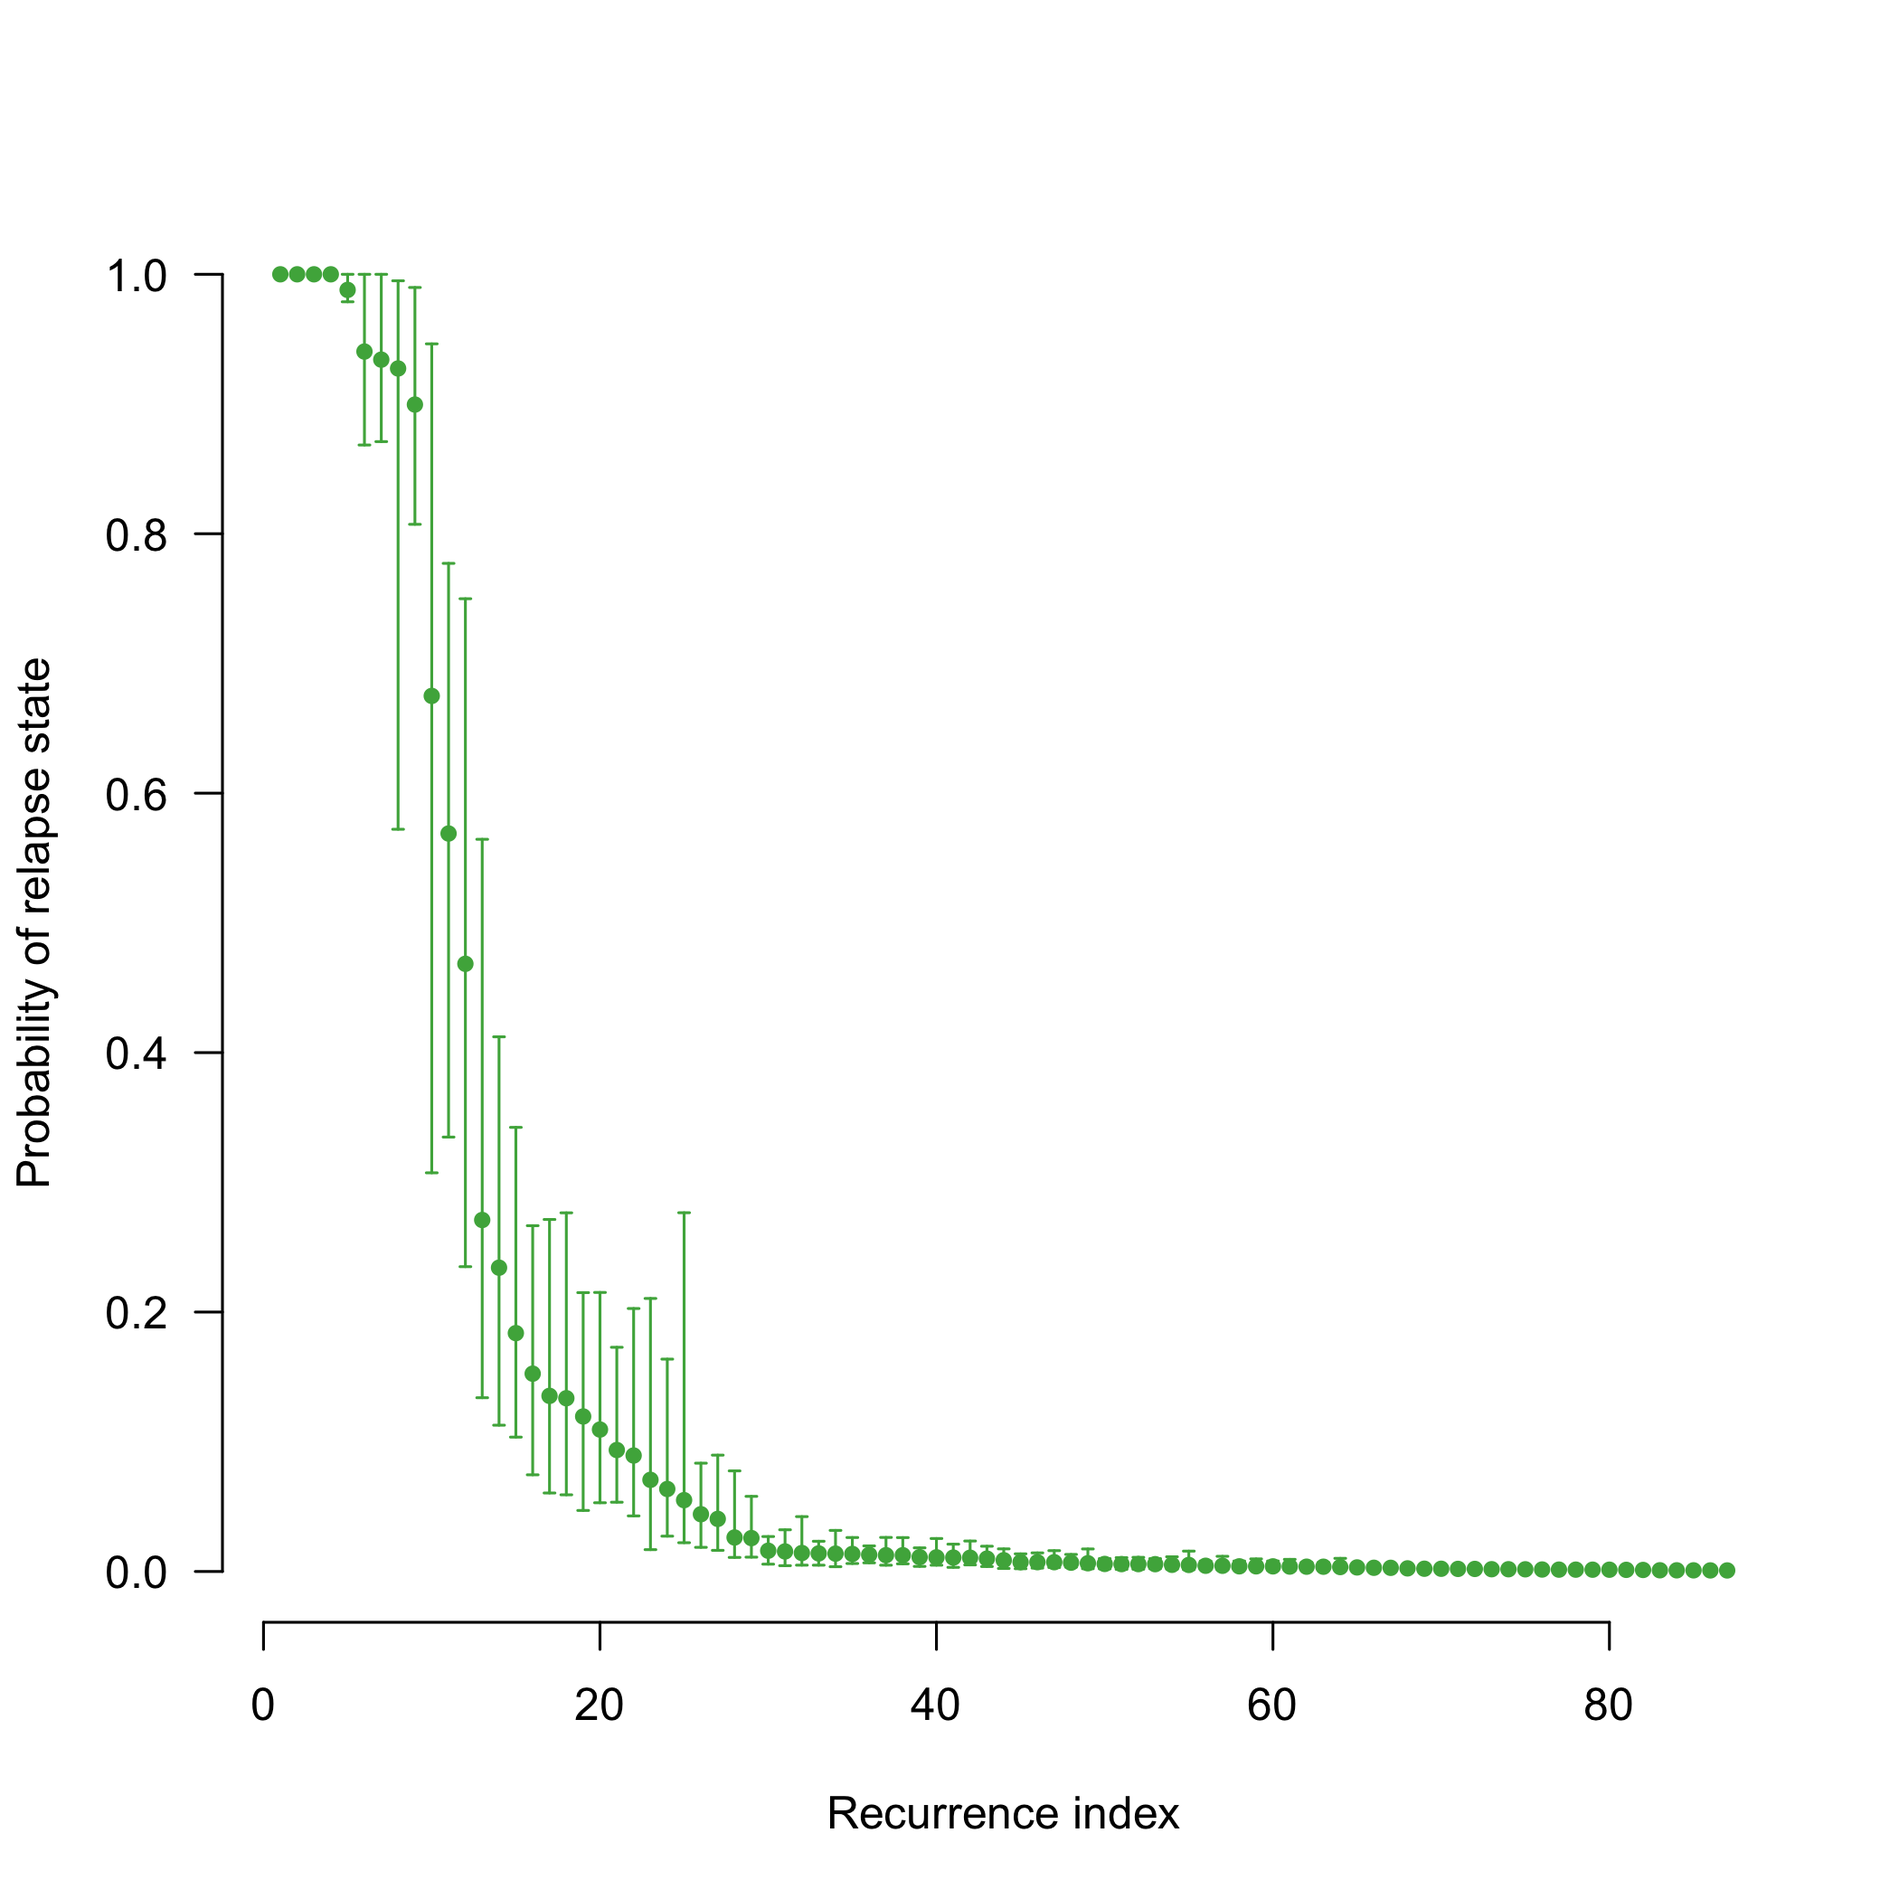
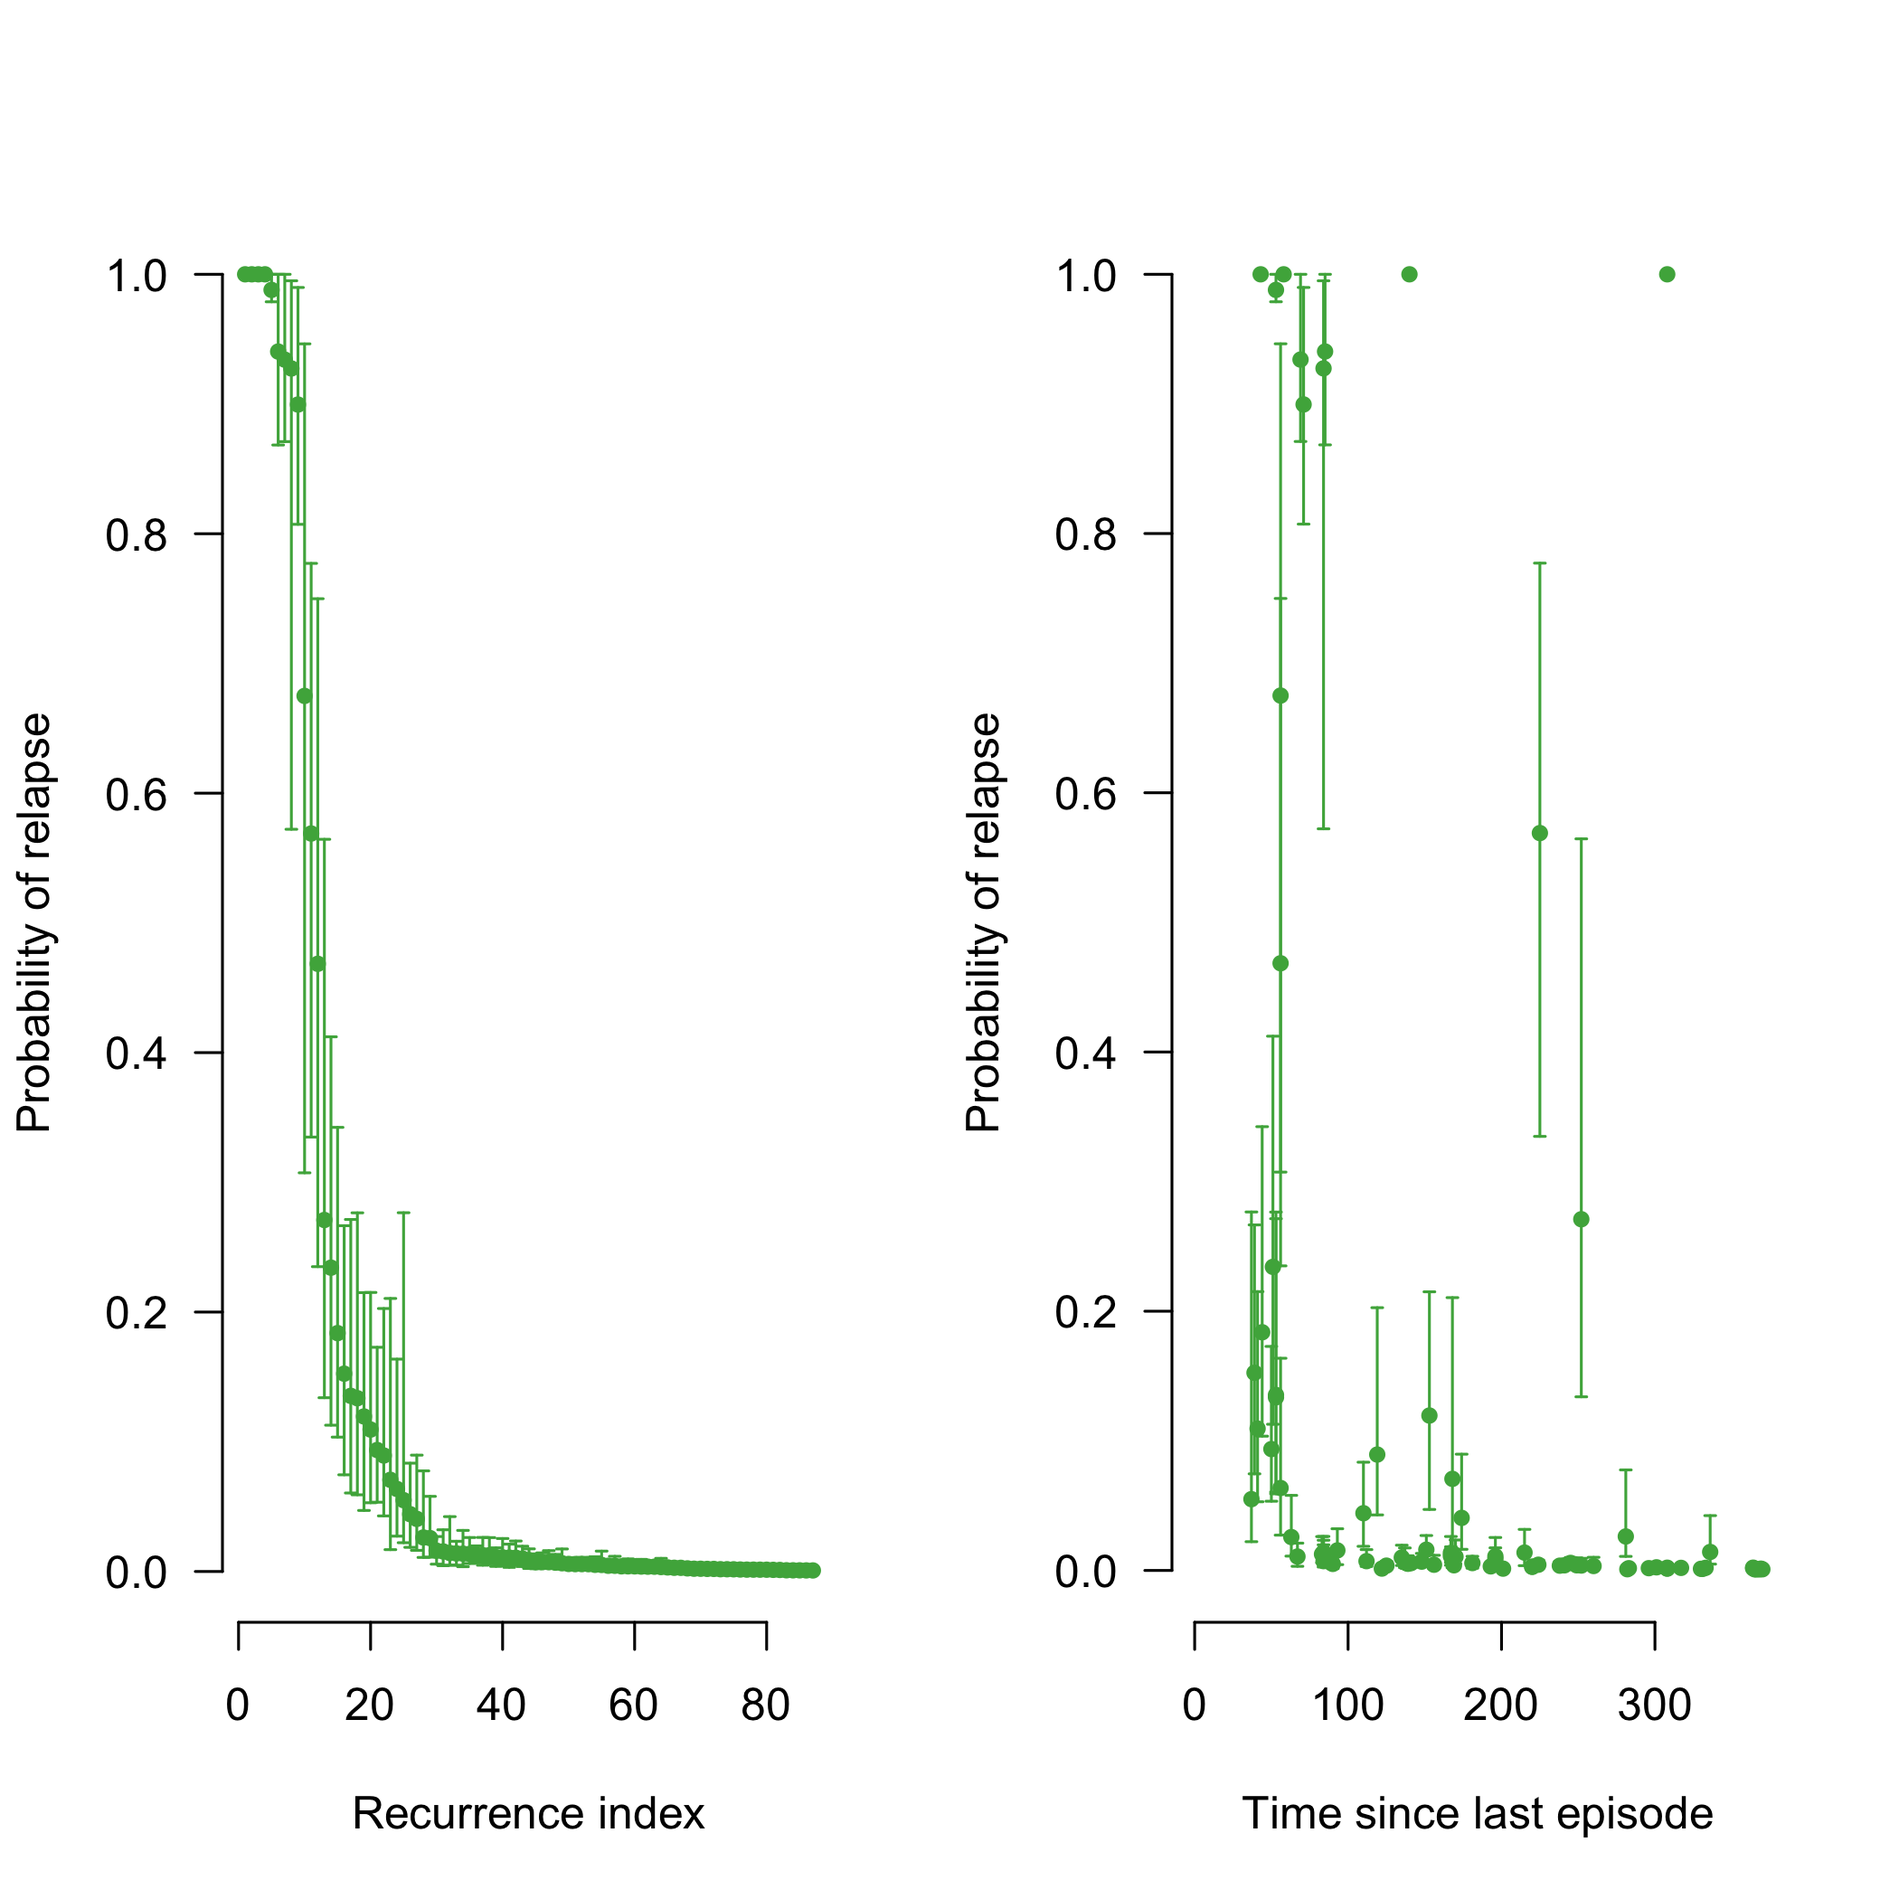
Plots with complete analysis

diff --git a/Pooled_Final_Analysis/Pooled_Analysis.md b/Pooled_Final_Analysis/Pooled_Analysis.md
@@ -34,6 +34,10 @@ N_episodes_typed = table(MS_pooled$ID[!duplicated(MS_pooled$Episode_Identifier)]
 MS_pooled = filter(MS_pooled, ID %in% names(N_episodes_typed[N_episodes_typed>1]))
 ```
 
+```
+## Warning: package 'bindrcpp' was built under R version 3.4.4
+```
+
 
 
 The approach is fully Bayesian and consists of the following:
@@ -48,7 +52,7 @@ Setting the weight to 0 recovers unweighted empirical allele frequencies.
 
 
 ```
-## Number of episodes used to compute frequencies: 164
+## Number of episodes used to compute frequencies: 159
 ```
 
 
@@ -127,13 +131,12 @@ thetas_9MS_Tagnostic$drug_col = mapvalues(x = thetas_9MS_Tagnostic$drug,
 
 ## Going from time-to-event prior to posterior
 
-There is some interesting correlation structure here - not quite sure what's happening exactly.
-Have broken it down by radical cure and no radical cure, as that is quite a big piece of information!
+Have broken it down by radical cure and no radical cure, as that is the most informative distinction here.
 
 
 ```r
 if(CREATE_PLOTS){
-  par(mfrow=c(1,2),las=1, bty='n')
+  par(mfrow=c(2,2),las=1, bty='n')
   # Time agnostic versus full posterior 
   plot(log10(thetas_9MS_Tagnostic$L), log10(thetas_9MS$L), 
        col = thetas_9MS$drug_col, main = 'Relapse',pch=20,
@@ -158,13 +161,15 @@ if(CREATE_PLOTS){
 }
 ```
 
-![](Pooled_Analysis_files/figure-html/unnamed-chunk-9-1.png)<!-- -->![](Pooled_Analysis_files/figure-html/unnamed-chunk-9-2.png)<!-- -->
+![](Pooled_Analysis_files/figure-html/unnamed-chunk-9-1.png)<!-- -->
 
 Probability of relapse, ordered from most to least likely:
 
 ```r
 if(CREATE_PLOTS){
-  par(las=1, bty='n')
+  
+  par(mfrow=c(1,2),las=1, bty='n')
+  
   reLapse_ordered = sort.int(thetas_9MS$L, decreasing = TRUE, index.return = TRUE)
   plot(reLapse_ordered$x, pch=20, col = thetas_9MS$drug_col[reLapse_ordered$ix],
        xlab = 'Recurrence index', ylab = 'Probability of relapse state',
@@ -194,14 +199,14 @@ if(CREATE_PLOTS){
 }
 ```
 
-![](Pooled_Analysis_files/figure-html/unnamed-chunk-10-1.png)<!-- -->![](Pooled_Analysis_files/figure-html/unnamed-chunk-10-2.png)<!-- -->
+![](Pooled_Analysis_files/figure-html/unnamed-chunk-10-1.png)<!-- -->
 
 Probability of reinfection, ordered from most to least likely:
 
 ```r
 if(CREATE_PLOTS){
   
-  par(las=1, bty='n')
+  par(mfrow=c(1,2),las=1, bty='n')
   reinfection_ordered = sort.int(thetas_9MS$I, decreasing = TRUE, index.return = TRUE)
   plot(reinfection_ordered$x, pch=18, col = thetas_9MS$drug_col[reinfection_ordered$ix],
        xlab = 'Recurrence index', ylab = 'Probability of reinfection state',
@@ -217,13 +222,13 @@ if(CREATE_PLOTS){
 }
 ```
 
-![](Pooled_Analysis_files/figure-html/unnamed-chunk-11-1.png)<!-- -->![](Pooled_Analysis_files/figure-html/unnamed-chunk-11-2.png)<!-- -->
+![](Pooled_Analysis_files/figure-html/unnamed-chunk-11-1.png)<!-- -->
 
 Probability of recrudescence, ordered from most to least likely:
 
 ```r
 if(CREATE_PLOTS){
-  par(las=1, bty='n')
+  par(mfrow=c(1,2),las=1, bty='n')
   recrud_ordered = sort.int(thetas_9MS$C, decreasing = TRUE, index.return = TRUE)
   plot(recrud_ordered$x, pch=18, col = thetas_9MS$drug_col[recrud_ordered$ix],
        xlab = 'Recurrence index', ylab = 'Probability of recrudescence state',
@@ -239,19 +244,22 @@ if(CREATE_PLOTS){
 }
 ```
 
-![](Pooled_Analysis_files/figure-html/unnamed-chunk-12-1.png)<!-- -->![](Pooled_Analysis_files/figure-html/unnamed-chunk-12-2.png)<!-- -->
+![](Pooled_Analysis_files/figure-html/unnamed-chunk-12-1.png)<!-- -->
 
 # BPD Final Plot
 
 
 ```r
+MS_pooled = MS_pooled[!duplicated(MS_pooled$Episode_Identifier),]
+
+
 BPD_data = Thetas_full_post[grep('BPD',rownames(Thetas_full_post)),]
 Thetas_BPD = thetas_9MS[grep('BPD', thetas_9MS$Episode_Identifier),]
 
-par(las=1, bty='n')
+par(mfrow=c(1,2),las=1, bty='n')
 reLapse_ordered = sort.int(Thetas_BPD$L, decreasing = TRUE, index.return = TRUE)
 plot(reLapse_ordered$x, pch=20, col = Thetas_BPD$drug_col[reLapse_ordered$ix],
-     xlab = 'Recurrence index', ylab = 'Probability of relapse state',
+     xlab = 'Recurrence index', ylab = 'Probability of relapse',
      main = '')
 CI = cbind(apply(
   BPD_data[reLapse_ordered$ix,grep('L',colnames(BPD_data)),],
@@ -264,11 +272,7 @@ for(i in 1:length(reLapse_ordered$x)){
                                   code = 3,
                                   col=Thetas_BPD$drug_col[reLapse_ordered$ix[i]])
 }
-```
 
-![](Pooled_Analysis_files/figure-html/BPD_efficacy-1.png)<!-- -->
-
-```r
 writeLines(sprintf('The mean percentage of recurrences which are estimated to be relapses is %s%%',
                    round(100*sum(Thetas_BPD$L + Thetas_BPD$C)/nrow(Thetas_BPD))))
 ```
@@ -278,14 +282,12 @@ writeLines(sprintf('The mean percentage of recurrences which are estimated to be
 ```
 
 ```r
-MS_pooled = MS_pooled[!duplicated(MS_pooled$Episode_Identifier),]
-
 plot(NA,NA,xlim=c(0,max(MS_pooled$timeSinceLastEpisode,na.rm=T)), ylim=c(0,1),
      ylab = 'Probability of relapse', xlab = 'Time since last episode')
 for(i in 1:length(reLapse_ordered$x)){
   kk = reLapse_ordered$ix[i]
   x_time = MS_pooled$timeSinceLastEpisode[Thetas_BPD$Episode_Identifier[kk]==
-                                          MS_pooled$Episode_Identifier]
+                                            MS_pooled$Episode_Identifier]
   points(x_time,
          Thetas_BPD$L[kk], pch=20, col=mycols[3])
   if(diff(CI[i,]) > 0.005) arrows(x_time,CI[i,1],x_time,CI[i,2], 
@@ -295,7 +297,7 @@ for(i in 1:length(reLapse_ordered$x)){
 }
 ```
 
-![](Pooled_Analysis_files/figure-html/BPD_efficacy-2.png)<!-- -->
+![](Pooled_Analysis_files/figure-html/BPD_efficacy-1.png)<!-- -->
 
 
 # Extra computations for VHX: too complex episodes
@@ -316,63 +318,64 @@ We blow up the pooled analysis into all pairs within individuals:
 Construct adjacency graphs and compute probabilities of relapse and reinfection.
 
 ```r
-MS_pooled$L_or_C_state = 
-  MS_pooled$ClusterID = 
-  MS_pooled$TotalEpisodes = NA
-
+MS_pooled$L_or_C_state = MS_pooled$TotalEpisodes = NA
+MS_pooled$L_lower = MS_pooled$L_upper = MS_pooled$L_mean = NA
 # Arrange by complexity
 # Get single rows per episode (throw away the extra MOI information)
 MS_inflated = MS_inflated[!duplicated(MS_inflated$Episode_Identifier) & MS_inflated$Episode>1,]
 Res$ID_True = MS_inflated$ID_True
 Res$First_EpNumber = MS_inflated$First_EpNumber
 Res$Second_EpNumber = MS_inflated$Second_EpNumber
-MS_inflated$ID = as.factor(MS_inflated$ID)
-MS_inflated$NumberClusters = NA
 
-## Threshold value
-Epsilons = 0.5
+
+## Threshold value for classification
+Epsilon = 0.5
 
 # Iterate through the ones we can calculate in one go
 episodes_full_model = unique(Thetas_full_post$Episode_Identifier)
 for(ep in episodes_full_model){
-  MS_pooled$L_or_C_state[MS_pooled$Episode_Identifier==ep] =
-    as.numeric(apply(Thetas_full_post[Thetas_full_post$Episode_Identifier==ep,
-                                      grep('L',colnames(Thetas_full_post))],
-                     1,quantile, probs=0.5) > Epsilons[1]) + 1
+  ind1 = (MS_pooled$Episode_Identifier==ep)
+  ind2 = (Thetas_full_post$Episode_Identifier==ep)
+  MS_pooled$L_upper[ind1] = quantile(unlist(Thetas_full_post[ind2, grep('L',colnames(Thetas_full_post))]),
+                                     probs=0.975)
+  MS_pooled$L_lower[ind1] = quantile(unlist(Thetas_full_post[ind2, grep('L',colnames(Thetas_full_post))]),
+                                     probs=0.025)
+  MS_pooled$L_mean[ind1] = quantile(unlist(Thetas_full_post[ind2, grep('L',colnames(Thetas_full_post))]),
+                                    probs=0.5)
+  if(MS_pooled$L_upper[ind1] < Epsilon){
+    MS_pooled$L_or_C_state[ind1] = 'I'
+  }
+  if(MS_pooled$L_lower[ind1] > Epsilon){
+    MS_pooled$L_or_C_state[ind1] = 'L'
+  }
+  if(MS_pooled$L_upper[ind1] > Epsilon & MS_pooled$L_lower[ind1] < Epsilon){
+    MS_pooled$L_or_C_state[ind1] = 'Uncertain'
+  }
 }
-
-Graphs_lower = list()
 
 for(i in 1:length(IDs_remaining)){
   id = IDs_remaining[i]
-  Neps = max(MS_inflated$Second_EpNumber[MS_inflated$ID_True==id])
-  Adj_Matrix = array(0, dim = c(Neps,Neps))
-  diag(Adj_Matrix) = 1/2
-  colnames(Adj_Matrix) = 1:Neps
-  rownames(Adj_Matrix) = 1:Neps
-  # Just looking at reLapse
   Doubles_Thetas = filter(Res, ID_True==id)
-  Is = Doubles_Thetas$First_EpNumber
-  Js = Doubles_Thetas$Second_EpNumber
-  for(k in 1:nrow(Doubles_Thetas)){
-    Adj_Matrix[Is[k],Js[k]] = Doubles_Thetas$L_min[k]
+  
+  for(ep in unique(Doubles_Thetas$Second_EpNumber)){
+    ind1 = which(MS_pooled$ID==id & MS_pooled$Episode==ep)
+    ind2 = which(Doubles_Thetas$Second_EpNumber == ep)
+    
+    MS_pooled$L_upper[ind1] = mean(Doubles_Thetas$L_min[ind2])
+    MS_pooled$L_lower[ind1] = mean(Doubles_Thetas$L_max[ind2])
+    MS_pooled$L_mean[ind1] = mean(Doubles_Thetas$L_mean[ind2])
+    if(!is.na(MS_pooled$L_upper[ind1])){
+      if(MS_pooled$L_upper[ind1] < Epsilon){
+        MS_pooled$L_or_C_state[ind1] = 'I'
+      }
+      if(MS_pooled$L_lower[ind1] > Epsilon){
+        MS_pooled$L_or_C_state[ind1] = 'L'
+      }
+      if(MS_pooled$L_upper[ind1] > Epsilon & MS_pooled$L_lower[ind1] < Epsilon){
+        MS_pooled$L_or_C_state[ind1] = 'Uncertain'
+      }
+    }
   }
-  Adj_Matrix = Adj_Matrix + t(Adj_Matrix)
-  
-  # We're using two Epsilon values to see the uncertain ones
-  Adj_Matrix_lower = Adj_Matrix_upper = Adj_Matrix
-  Adj_Matrix_lower[ Adj_Matrix < Epsilons[1] ] = 0
-  Adj_Matrix_lower[ Adj_Matrix >= Epsilons[1] ] = 1
-  Graphs_lower[[i]] = graph_from_adjacency_matrix(Adj_Matrix_lower, 
-                                                  mode = "undirected",diag = F)
-  
-  
-  # Add the number of clusters to the non-inflated MS dataset
-  MS_pooled$TotalEpisodes[MS_pooled$ID==id] = Neps
-  MS_pooled$NumberClusters[MS_pooled$ID==id] = components(Graphs_lower[[i]])$no
-  # Add the membership of each cluster
-  MS_pooled$ClusterID[MS_pooled$ID==id] = components(Graphs_lower[[i]])$membership
-  MS_pooled$L_or_C_state[MS_pooled$ID==id] = as.numeric(duplicated(components(Graphs_lower[[i]])$membership))+1
   
 }
 
@@ -386,12 +389,16 @@ for(id in MS_pooled$ID){
 }
 
 MS_pooled = arrange(MS_pooled, Drug, desc(FU), desc(TotalEpisodes))
+MS_pooled$Plotting_pch_Values = as.numeric(mapvalues(MS_pooled$L_or_C_state, 
+                                                     from = c('L','Uncertain','I'), to = 15:17))
+MS_pooled$Plotting_col_Values = as.numeric(mapvalues(MS_pooled$L_or_C_state, 
+                                                     from = c('L','Uncertain','I'), to = 1:3))
 ```
 
 
 ```r
 ## Time series data colored by genetic STATE: classification
-mycols_states = c('black','red') # colors for states - need uncertain ones as well
+mycols_states = c('red','yellow','black') # colors for states - need uncertain ones as well
 mycols_drugs = brewer.pal(n=3, name = 'Set1')
 
 ids = unique(MS_pooled$ID)
@@ -408,18 +415,58 @@ for(i in 1:length(ids)){
   ind = which(MS_pooled$ID==id & MS_pooled$Episode>1)
   Neps = length(ind)
   
-  
+  # Add the follow up time line
   lines(c(0,MS_pooled$FU[ind[1]]), 
         c(i,i), lty=1, 
         lwd=.5, col= mycols_drugs[MS_pooled$Drug[ind[1]]])
   if(Neps > 0){
-    cols = mycols_states[MS_pooled$L_or_C_state[ind]]
-    points(MS_pooled$timeSinceEnrolment[ind], rep(i,Neps), pch=MS_pooled$L_or_C_state[ind]+14, 
+    cols = mycols_states[MS_pooled$Plotting_col_Values[ind]]
+    points(MS_pooled$timeSinceEnrolment[ind], rep(i,Neps), pch=MS_pooled$Plotting_pch_Values[ind], 
            col=cols,cex=.6)
   }
 }
+abline(v=0,lwd=3)
 ```
 
-![](Pooled_Analysis_files/figure-html/unnamed-chunk-16-1.png)<!-- -->
+![](Pooled_Analysis_files/figure-html/CoatneyStylePLot-1.png)<!-- -->
 
+
+```r
+par(las=1, mfcol = c(2,1), mar=c(3,4,1,1), bty='n')
+
+MS_final = filter(MS_pooled, !is.na(L_mean))
+relapse_order = sort(MS_final$L_mean, decreasing = T, index.return=T)
+plot(relapse_order$x, col = mycols_drugs[MS_final$Drug[relapse_order$ix]], 
+     pch=20, cex=.3, yaxt='n', ylab='')
+axis(2, at = c(0,.5,1))
+polygon(c(1:nrow(MS_final), rev(1:nrow(MS_final))), 
+        y = c(MS_final$L_lower[relapse_order$ix],
+              rev(MS_final$L_upper[relapse_order$ix])), 
+        border = NA, col = rgb(1, 0, 0,0.5))
+points(relapse_order$x, col = mycols_drugs[MS_final$Drug[relapse_order$ix]], 
+       pch=20, cex=.5)
+mtext(side = 1, text = 'Recurrence index', line = 2)
+mtext(side = 2, text = 'Relapse probability', line = 3,las=3)
+
+plot(MS_final$timeSinceLastEpisode, MS_final$L_mean,
+     col = mycols_drugs[MS_final$Drug], 
+     pch=20, cex=.4, xlab = '',yaxt='n',
+     ylab = '')
+axis(2, at = c(0,.5,1))
+for(i in 1:nrow(MS_final)){
+  if(abs(MS_final$L_upper[i] - MS_final$L_lower[i]) > 0.005){
+    arrows(MS_final$timeSinceLastEpisode[i],
+           MS_final$L_lower[i],
+           MS_final$timeSinceLastEpisode[i],
+           MS_final$L_upper[i],
+           length = 0.02,angle = 90, 
+           code = 3,
+           col=mycols_drugs[MS_final$Drug[i]])
+  }
+}
+mtext(side = 1, text = 'Days since last episode', line = 2)
+mtext(side = 2, text = 'Relapse probability', line = 3,las=3)
+```
+
+![](Pooled_Analysis_files/figure-html/CompleteDataPlot-1.png)<!-- -->
 
